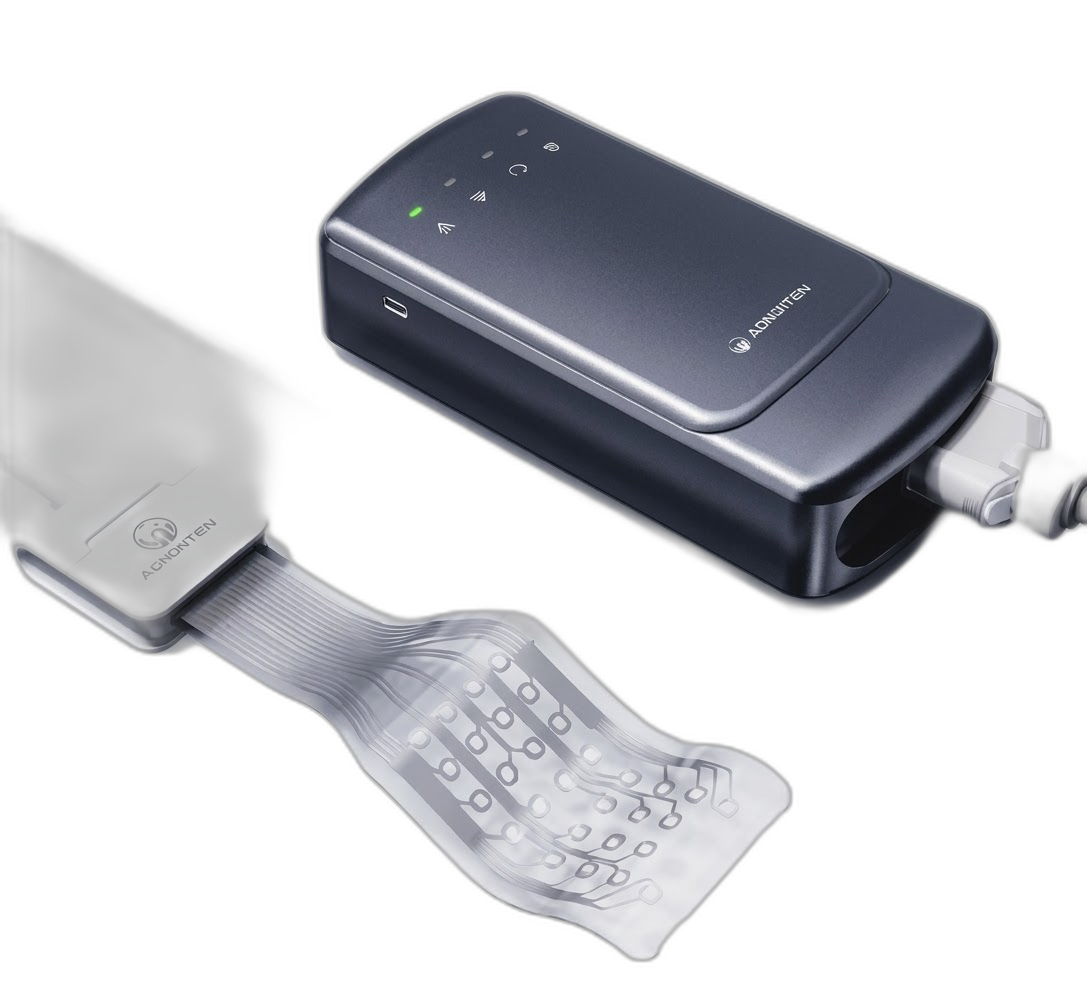
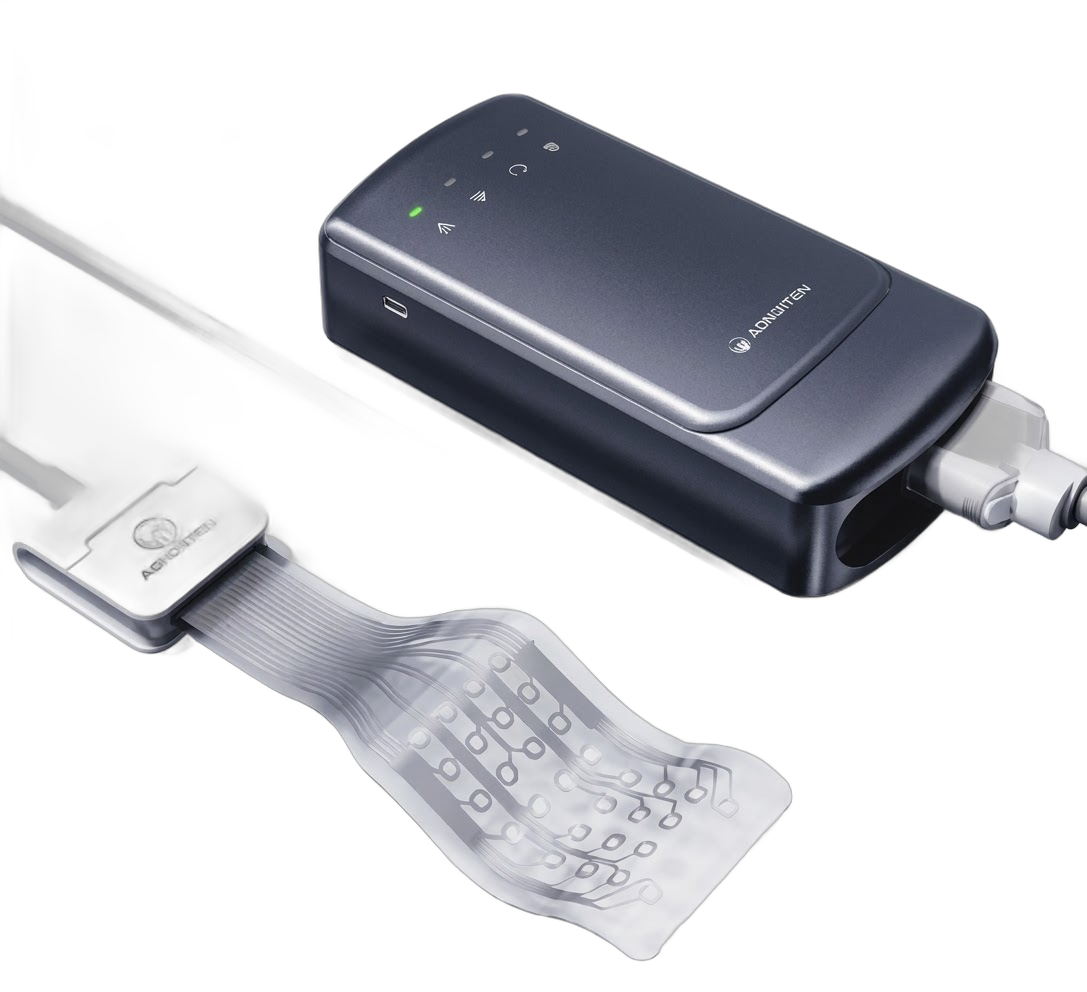
fix: 제품 상세페이지 문구 일괄 수정 및 사양표 영문 병기, 이미지 2건 수정
- 18개 제품 페이지 소개 문구를 더 간결한 버전으로 교체 (수정사항.txt 기준)
- ap003 "3D 포스 (말단골 + 기절골)" → "3D 포스"로 단순화
- ap003·RM65/75 사양표에 헷갈리는 한글 전용 항목명 아래 영문 병기 추가
- hd-emg 이미지: 배경 제거 시 케이블이 함께 지워졌던 것을
  isnet-general-use 모델로 재처리해 복원
- hybridex 이미지: 제품이 검정색이라 어두운 히어로 배경에서 묻혀 안 보이던
  문제를 은은한 밝은 백드롭 추가로 해결

diff --git a/app/[locale]/products/robot-hand/ap003/page.tsx b/app/[locale]/products/robot-hand/ap003/page.tsx
@@ -22,29 +22,29 @@ export default async function AP003Page({ params }: PageProps) {
   const isKo = locale === "ko";
 
   const loadAndSpeed = [
-    { k: isKo ? "최대 속도 전 범위 굽힘/펴기 시간" : "Bending/stretching time for full range at max speed", v: "0.7s" },
-    { k: isKo ? "최대 속도 기준 엄지 전체 회전 시간" : "Rotation time of thumb for full range at max speed", v: "0.7s" },
-    { k: isKo ? "펴진 상태 각 손가락 끝 능동력" : "Active force of each finger tip on stretched state", v: "≥ 0.5 Kgf" },
-    { k: isKo ? "굽힌 상태 각 손가락 끝 능동력" : "Active force of each finger tip on bended state", v: "≥ 1.0 Kgf" },
-    { k: isKo ? "4손가락 굽힌 상태 최대 수동 하중" : "Maximum passive load for four fingers on bended state", v: "30kg" },
-    { k: isKo ? "각 손가락 굽힌 상태 최대 수동 하중" : "Maximum passive load for each finger on bended state", v: "10kg" },
-    { k: isKo ? "각 손가락 펴진 상태 최대 수동 하중" : "Maximum passive load for each finger on stretched state", v: "8kg" },
-    { k: isKo ? "무게" : "Weight", v: "626g ± 5g" },
+    { ko: "최대 속도 전 범위 굽힘/펴기 시간", en: "Bending/stretching time for full range at max speed", v: "0.7s" },
+    { ko: "최대 속도 기준 엄지 전체 회전 시간", en: "Rotation time of thumb for full range at max speed", v: "0.7s" },
+    { ko: "펴진 상태 각 손가락 끝 능동력", en: "Active force of each finger tip on stretched state", v: "≥ 0.5 Kgf" },
+    { ko: "굽힌 상태 각 손가락 끝 능동력", en: "Active force of each finger tip on bended state", v: "≥ 1.0 Kgf" },
+    { ko: "4손가락 굽힌 상태 최대 수동 하중", en: "Maximum passive load for four fingers on bended state", v: "30kg" },
+    { ko: "각 손가락 굽힌 상태 최대 수동 하중", en: "Maximum passive load for each finger on bended state", v: "10kg" },
+    { ko: "각 손가락 펴진 상태 최대 수동 하중", en: "Maximum passive load for each finger on stretched state", v: "8kg" },
+    { ko: "무게", en: "Weight", v: "626g ± 5g" },
   ];
 
   const forceSensor3D = [
-    { k: isKo ? "주파수" : "Frequency", v: "≥ 50Hz" },
-    { k: isKo ? "최대 견딜 수 있는 힘" : "Maximum Withstand Force", v: isKo ? "30N (개별 촉각 센서 기준)" : "30N (for individual tactile sensor)" },
-    { k: isKo ? "수직 압력 범위 / 감도" : "Normal Force Range / Sensitivity", v: "15N / 0.1N" },
-    { k: isKo ? "전단력 범위 (말단골)" : "Shear Force Range (Distal Phalanx)", v: "± 5N" },
-    { k: isKo ? "방향 분해능" : "Directional Resolution", v: "1˚" },
+    { ko: "주파수", en: "Frequency", v: "≥ 50Hz" },
+    { ko: "최대 견딜 수 있는 힘", en: "Maximum Withstand Force", v: isKo ? "30N (개별 촉각 센서 기준)" : "30N (for individual tactile sensor)" },
+    { ko: "수직 압력 범위 / 감도", en: "Normal Force Range / Sensitivity", v: "15N / 0.1N" },
+    { ko: "전단력 범위 (말단골)", en: "Shear Force Range (Distal Phalanx)", v: "± 5N" },
+    { ko: "방향 분해능", en: "Directional Resolution", v: "1˚" },
   ];
 
   const dotMatrix = [
-    { k: isKo ? "주파수" : "Frequency", v: "150Hz" },
-    { k: isKo ? "도트 수" : "Dots", v: "11 x 5" },
-    { k: isKo ? "수직 압력 범위" : "Normal Force Range", v: "0.1N ~ 25N" },
-    { k: isKo ? "반복 정확도" : "Repeatability Accuracy", v: isKo ? "± 20% (500g 하중 기준)" : "± 20% (500g load)" },
+    { ko: "주파수", en: "Frequency", v: "150Hz" },
+    { ko: "도트 수", en: "Dots", v: "11 x 5" },
+    { ko: "수직 압력 범위", en: "Normal Force Range", v: "0.1N ~ 25N" },
+    { ko: "반복 정확도", en: "Repeatability Accuracy", v: isKo ? "± 20% (500g 하중 기준)" : "± 20% (500g load)" },
   ];
 
   const useCases = [
@@ -150,8 +150,11 @@ export default async function AP003Page({ params }: PageProps) {
           <div className="max-w-2xl overflow-hidden">
             {loadAndSpeed.map((s, i) => (
               <div key={i} className={`flex justify-between px-6 py-4 text-sm ${i % 2 === 0 ? "bg-gray-50/40" : ""}`}>
-                <span className="text-gray-500 font-medium">{s.k}</span>
-                <span className="font-semibold text-gray-900 text-right">{s.v}</span>
+                <span className="text-gray-500 font-medium">
+                  {isKo ? s.ko : s.en}
+                  <span className="block text-xs text-gray-400">{isKo ? s.en : s.ko}</span>
+                </span>
+                <span className="font-semibold text-gray-900 text-right shrink-0 pl-4">{s.v}</span>
               </div>
             ))}
           </div>
@@ -166,14 +169,17 @@ export default async function AP003Page({ params }: PageProps) {
             <div className="bg-white rounded-2xl border border-gray-100 overflow-hidden">
               <div className="px-6 py-4 border-b border-gray-100">
                 <h3 className="text-sm font-bold text-gray-900">
-                  {isKo ? "3D 포스 (말단골 + 기절골)" : "3D Force (Distal + Proximal Phalanx)"}
+                  {isKo ? "3D 포스" : "3D Force"}
                 </h3>
               </div>
               <div className="divide-y divide-gray-100 text-sm">
                 {forceSensor3D.map((s, i) => (
                   <div key={i} className="flex justify-between px-6 py-3">
-                    <span className="text-gray-500 pr-4">{s.k}</span>
-                    <span className="font-semibold text-gray-900 whitespace-nowrap text-right">{s.v}</span>
+                    <span className="text-gray-500 pr-4">
+                      {isKo ? s.ko : s.en}
+                      <span className="block text-xs text-gray-400">{isKo ? s.en : s.ko}</span>
+                    </span>
+                    <span className="font-semibold text-gray-900 whitespace-nowrap text-right shrink-0">{s.v}</span>
                   </div>
                 ))}
               </div>
@@ -187,8 +193,11 @@ export default async function AP003Page({ params }: PageProps) {
               <div className="divide-y divide-gray-100 text-sm">
                 {dotMatrix.map((s, i) => (
                   <div key={i} className="flex justify-between px-6 py-3">
-                    <span className="text-gray-500 pr-4">{s.k}</span>
-                    <span className="font-semibold text-gray-900 whitespace-nowrap text-right">{s.v}</span>
+                    <span className="text-gray-500 pr-4">
+                      {isKo ? s.ko : s.en}
+                      <span className="block text-xs text-gray-400">{isKo ? s.en : s.ko}</span>
+                    </span>
+                    <span className="font-semibold text-gray-900 whitespace-nowrap text-right shrink-0">{s.v}</span>
                   </div>
                 ))}
               </div>

diff --git a/app/[locale]/products/collaborative-robot/realman/rm65-75/page.tsx b/app/[locale]/products/collaborative-robot/realman/rm65-75/page.tsx
@@ -56,19 +56,19 @@ export default async function RM6575Page({ params }: PageProps) {
       ];
 
   const specs = [
-    { k: isKo ? "자유도" : "DOF", rm65: "6", rm75: "7" },
-    { k: isKo ? "구조 형상" : "Structure", rm65: isKo ? "휴머노이드 구조" : "Humanoid structure", rm75: isKo ? "휴머노이드 구조" : "Humanoid structure" },
-    { k: isKo ? "관절 브레이크 형식" : "Joint Brake Type", rm65: isKo ? "1-3축 기계식 / 4-6축 소프트" : "J1-3 mechanical / J4-6 soft", rm75: isKo ? "1-4축 기계식 / 5-7축 소프트" : "J1-4 mechanical / J5-7 soft" },
-    { k: isKo ? "작업 반경 (mm)" : "Working Radius (mm)", rm65: "610", rm75: "610" },
-    { k: isKo ? "유효 가반 하중 (kg)" : "Payload (kg)", rm65: "5", rm75: "5" },
-    { k: isKo ? "자중 (kg)" : "Net Weight (kg)", rm65: "7.2", rm75: "7.8" },
-    { k: isKo ? "반복 위치 정밀도 (mm)" : "Repeatability (mm)", rm65: "±0.05", rm75: "±0.05" },
-    { k: "TCP " + (isKo ? "선속도 (m/s)" : "Linear Speed (m/s)"), rm65: "≤1.8", rm75: "≤1.8" },
-    { k: isKo ? "정격 소비전력 (W)" : "Rated Power (W)", rm65: "≤150", rm75: "≤200" },
-    { k: isKo ? "최대 출력 (W)" : "Max Power (W)", rm65: "≤600", rm75: "≤600" },
-    { k: isKo ? "베이스 크기 (mm)" : "Base Size (mm)", rm65: "107Φ", rm75: "107Φ" },
-    { k: isKo ? "작동 온도 (˚C)" : "Operating Temp (˚C)", rm65: "0-45", rm75: "0-45" },
-    { k: isKo ? "공급 전압 (V)" : "Power Supply (V)", rm65: "DC 24V", rm75: "DC 24V" },
+    { ko: "자유도", en: "DOF", rm65: "6", rm75: "7" },
+    { ko: "구조 형상", en: "Structure", rm65: isKo ? "휴머노이드 구조" : "Humanoid structure", rm75: isKo ? "휴머노이드 구조" : "Humanoid structure" },
+    { ko: "관절 브레이크 형식", en: "Joint Brake Type", rm65: isKo ? "1-3축 기계식 / 4-6축 소프트" : "J1-3 mechanical / J4-6 soft", rm75: isKo ? "1-4축 기계식 / 5-7축 소프트" : "J1-4 mechanical / J5-7 soft" },
+    { ko: "작업 반경 (mm)", en: "Working Radius (mm)", rm65: "610", rm75: "610" },
+    { ko: "유효 가반 하중 (kg)", en: "Payload (kg)", rm65: "5", rm75: "5" },
+    { ko: "자중 (kg)", en: "Net Weight (kg)", rm65: "7.2", rm75: "7.8" },
+    { ko: "반복 위치 정밀도 (mm)", en: "Repeatability (mm)", rm65: "±0.05", rm75: "±0.05" },
+    { ko: "TCP 선속도 (m/s)", en: "TCP Linear Speed (m/s)", rm65: "≤1.8", rm75: "≤1.8" },
+    { ko: "정격 소비전력 (W)", en: "Rated Power (W)", rm65: "≤150", rm75: "≤200" },
+    { ko: "최대 출력 (W)", en: "Max Power (W)", rm65: "≤600", rm75: "≤600" },
+    { ko: "베이스 크기 (mm)", en: "Base Size (mm)", rm65: "107Φ", rm75: "107Φ" },
+    { ko: "작동 온도 (˚C)", en: "Operating Temp (˚C)", rm65: "0-45", rm75: "0-45" },
+    { ko: "공급 전압 (V)", en: "Power Supply (V)", rm65: "DC 24V", rm75: "DC 24V" },
   ];
 
   const controllerBenefits = isKo
@@ -102,7 +102,7 @@ export default async function RM6575Page({ params }: PageProps) {
             </p>
             <p className="text-lg text-white/60 max-w-xl leading-relaxed mb-8">
               {isKo
-                ? "5kg 가반하중과 ±0.05mm 반복정밀도를 제공하는 초경량 협동로봇. RM65는 초경량 설계, 사람과 유사한 6축 구조, 협동 작업, AI 및 비전 연동을 위해 개발된 협동로봇입니다."
+                ? "7.2kg의 초경량 설계로 5kg 페이로드를 지원하며, 제어기가 통합된 고성능 6축 협동로봇입니다."
                 : "An ultra-lightweight cobot with 5kg payload and ±0.05mm repeatability. RM65 was developed for ultra-lightweight design, human-like 6-axis structure, collaborative work, and AI/vision integration."}
             </p>
             <div className="flex flex-wrap gap-3">
@@ -183,7 +183,10 @@ export default async function RM6575Page({ params }: PageProps) {
               <tbody className="divide-y divide-gray-100">
                 {specs.map((s, i) => (
                   <tr key={i} className={i % 2 === 0 ? "" : "bg-gray-50/40"}>
-                    <td className="px-5 py-3 text-xs font-semibold text-gray-500 whitespace-nowrap">{s.k}</td>
+                    <td className="px-5 py-3 text-xs font-semibold text-gray-500">
+                      {isKo ? s.ko : s.en}
+                      <span className="block text-[11px] font-normal text-gray-400">{isKo ? s.en : s.ko}</span>
+                    </td>
                     <td className="px-5 py-3 text-center text-gray-700 whitespace-nowrap">{s.rm65}</td>
                     <td className="px-5 py-3 text-center text-gray-700 whitespace-nowrap">{s.rm75}</td>
                   </tr>

diff --git a/app/[locale]/products/humanoid/robot-arm/rx75-vision/page.tsx b/app/[locale]/products/humanoid/robot-arm/rx75-vision/page.tsx
@@ -128,7 +128,7 @@ export default async function Rx75VisionPage({ params }: PageProps) {
             </p>
             <p className="text-lg text-white/60 max-w-xl leading-relaxed mb-8">
               {isKo
-                ? "RX75 Vision은 Intel RealSense D405 깊이 카메라를 로봇 말단부에 기본 탑재한 7축 휴머노이드 로봇암입니다. AI 비전과 6축 힘·토크 센서를 결합하여 물체 인식, 위치 보정, 정밀 조작을 하나의 플랫폼에서 구현할 수 있으며, 휴머노이드 로봇, Embodied AI, 스마트 자동화 및 연구개발 분야에 최적화되어 있습니다."
+                ? "7축 로봇암에 AI 비전과 힘·토크 센서를 결합해 물체 인식부터 위치 보정, 정밀 조작까지 구현할 수 있는 휴머노이드 로봇암입니다."
                 : "RX75 Vision is a 7-axis humanoid robot arm with an Intel RealSense D405 depth camera built into its end effector. Combining AI vision with a 6-axis force/torque sensor, it delivers object recognition, position correction, and precise manipulation on a single platform — optimized for humanoid robots, embodied AI, smart automation, and R&D."}
             </p>
             <div className="flex flex-wrap gap-3 mb-8">

diff --git a/app/[locale]/products/humanoid/robot-arm/rx75s/page.tsx b/app/[locale]/products/humanoid/robot-arm/rx75s/page.tsx
@@ -128,7 +128,7 @@ export default async function Rx75sPage({ params }: PageProps) {
             </p>
             <p className="text-lg text-white/60 max-w-xl leading-relaxed mb-8">
               {isKo
-                ? "RX75S Standard는 RX75의 성능을 유지하면서 더욱 컴팩트한 구조로 설계된 휴머노이드 로봇암입니다. 691mm 작업반경과 5kg 가반하중, 내장형 6축 힘·토크 센서를 통해 협소한 공간에서도 높은 작업 효율과 정밀한 제어를 제공합니다. 특히 양팔 휴머노이드 시스템과 이동형 로봇 플랫폼에 최적화되어 있습니다."
+                ? "691mm 작업반경과 5kg 가반하중을 갖춘 컴팩트한 6축 로봇암으로, 양팔 휴머노이드와 이동형 로봇 플랫폼에 적합합니다."
                 : "RX75S Standard is a humanoid robot arm designed with a more compact structure while maintaining RX75's performance. With a 691mm working radius, 5kg payload, and built-in 6-axis force/torque sensor, it delivers high efficiency and precise control even in tight spaces — optimized especially for dual-arm humanoid systems and mobile robot platforms."}
             </p>
             <div className="flex flex-wrap gap-3 mb-8">

diff --git a/app/[locale]/products/humanoid/robot-arm/rx71/page.tsx b/app/[locale]/products/humanoid/robot-arm/rx71/page.tsx
@@ -127,7 +127,7 @@ export default async function Rx71Page({ params }: PageProps) {
           </p>
           <p className="text-lg text-white/60 max-w-xl leading-relaxed mb-8">
             {isKo
-              ? "RX71 Standard는 3kg 가반하중과 7축 자유도를 갖춘 휴머노이드 로봇암으로, 연구개발, AI 알고리즘 검증, 교육 및 정밀 작업에 최적화된 모델입니다. 경량 설계와 뛰어난 조작성으로 다양한 개발 환경에 쉽게 적용할 수 있으며, 휴머노이드 및 Embodied AI 플랫폼 구축을 위한 효율적인 솔루션을 제공합니다."
+              ? "3kg 가반하중과 7축 자유도를 갖춘 경량 로봇암으로, AI·휴머노이드 연구개발과 정밀 작업에 적합합니다."
               : "RX71 Standard is a humanoid robot arm with a 3kg payload and 7-axis DOF, optimized for R&D, AI algorithm validation, education, and precision work. Its lightweight design and excellent maneuverability make it easy to apply across diverse development environments, offering an efficient solution for building humanoid and embodied AI platforms."}
           </p>
           <div className="flex flex-wrap gap-3 mb-8">

diff --git a/app/[locale]/products/physical-ai/tashan/page.tsx b/app/[locale]/products/physical-ai/tashan/page.tsx
@@ -42,7 +42,7 @@ export default async function TashanPage({ params }: PageProps) {
             </p>
             <p className="text-lg text-white/60 max-w-xl leading-relaxed mb-8">
               {isKo
-                ? "첨단 촉각 센싱 기술은 단순한 힘 감지를 넘어 촉감·압력·근접·마찰·재질 변화까지 읽어내는 새로운 차원의 로봇 감각을 가능하게 합니다. 사람의 손처럼 섬세하게 반응하는 로봇 핸드는 제조·서비스·의료 분야의 정밀성을 크게 확장합니다."
+                ? "Tashan 촉각센서는 힘·압력·근접·마찰·재질 등의 정보를 정밀하게 감지해 로봇이 사람의 손처럼 섬세하게 물체를 인식하고 조작할 수 있도록 합니다."
                 : "Advanced tactile sensing technology goes beyond simple force detection — enabling a new dimension of robot senses that read touch, pressure, proximity, friction, and material changes. Robot hands that respond as delicately as human hands greatly expand precision in manufacturing, service, and medical robotics."}
             </p>
             <div className="flex flex-wrap gap-3">

diff --git a/app/[locale]/products/humanoid/realbot-01/page.tsx b/app/[locale]/products/humanoid/realbot-01/page.tsx
@@ -96,7 +96,7 @@ export default async function Realbot01Page({ params }: PageProps) {
           </p>
           <p className="text-lg text-white/60 max-w-2xl leading-relaxed mb-8">
             {isKo
-              ? "RealBot-01은 Embodied AI 연구와 휴머노이드 개발을 위해 설계된 차세대 휠형 휴머노이드입니다. 모듈형 구조를 기반으로 상체와 이동 플랫폼을 분리하거나 다양한 플랫폼과 결합할 수 있어 연구, 데이터 수집, AI 학습, 알고리즘 개발에 최적화되어 있습니다."
+              ? "모듈형 구조와 휠 기반 이동을 갖춘 연구용 휴머노이드 로봇으로, Embodied AI 연구와 데이터 수집 및 AI 학습에 적합합니다."
               : "RealBot-01 is a next-generation wheeled humanoid designed for embodied AI research and humanoid development. Its modular structure lets the upper body separate from or combine with various mobility platforms, optimized for research, data collection, AI training, and algorithm development."}
           </p>
           <div className="flex flex-wrap gap-3 mb-8">

diff --git a/app/[locale]/products/humanoid/realbot-l2/page.tsx b/app/[locale]/products/humanoid/realbot-l2/page.tsx
@@ -109,7 +109,7 @@ export default async function RealbotL2Page({ params }: PageProps) {
           </p>
           <p className="text-lg text-white/60 max-w-2xl leading-relaxed mb-8">
             {isKo
-              ? "RealBot L2는 승강(Lifting) 구조를 적용한 휠형 휴머노이드 로봇입니다. 작업 높이를 자유롭게 조절할 수 있어 높은 선반, 생산 라인, 물류 랙 등 다양한 높이의 작업 환경에 유연하게 대응하며, 서비스부터 산업 자동화까지 폭넓게 활용할 수 있습니다."
+              ? "승강 구조와 휠 기반 이동을 결합해 작업 높이를 자유롭게 조절할 수 있는 휴머노이드 로봇으로, 물류·제조·서비스 환경에 유연하게 대응합니다."
               : "RealBot L2 is a wheeled humanoid robot with a lifting structure. Its freely adjustable working height flexibly handles tasks at high shelves, production lines, and logistics racks — spanning from service to industrial automation."}
           </p>
           <div className="flex flex-wrap gap-3 mb-8">

diff --git a/app/[locale]/products/humanoid/embodied-dual-arm/page.tsx b/app/[locale]/products/humanoid/embodied-dual-arm/page.tsx
@@ -85,7 +85,7 @@ export default async function EmbodiedDualArmPage({ params }: PageProps) {
           </p>
           <p className="text-lg text-white/60 max-w-2xl leading-relaxed mb-8">
             {isKo
-              ? "이동, 승강, 양팔 작업을 하나의 플랫폼에 통합한 산업용 모바일 로봇입니다. 두 개의 로봇암과 승강축을 결합하여 다양한 높이의 작업 환경에 대응하며, 제조·물류·검사 공정의 자동화를 지원합니다."
+              ? "이동·승강·양팔 작업을 하나의 플랫폼에 통합한 모바일 로봇으로, 제조·물류·검사 등 다양한 작업을 자동화할 수 있습니다."
               : "An industrial mobile robot that integrates mobility, lifting, and dual-arm manipulation on a single platform. Combining two robot arms with a lift axis, it handles work environments of varying heights and supports automation in manufacturing, logistics, and inspection."}
           </p>
           <div className="flex flex-wrap gap-3 mb-8">

diff --git a/app/[locale]/products/collaborative-robot/elephant-robotics/page.tsx b/app/[locale]/products/collaborative-robot/elephant-robotics/page.tsx
@@ -111,7 +111,7 @@ export default async function ElephantRoboticsPage({ params }: PageProps) {
             </p>
             <p className="text-lg text-white/60 max-w-xl leading-relaxed mb-8">
               {isKo
-                ? "myCobot 시리즈는 산업 자동화보다는 교육, 연구, 로봇 개발, 알고리즘 실험에 최적화된 플랫폼입니다. 컴팩트한 크기와 직관적인 제어 구조를 바탕으로 입문자부터 전문 연구자까지 폭넓게 활용할 수 있습니다."
+                ? "컴팩트한 크기와 직관적인 제어가 강점인 협동로봇으로, 교육·연구와 로봇 개발 및 알고리즘 실험에 적합합니다."
                 : "The myCobot series is optimized for education, research, robot development, and algorithm experimentation rather than industrial automation. Its compact size and intuitive control structure make it accessible from beginners to professional researchers."}
             </p>
             <div className="flex flex-wrap gap-3">

diff --git a/app/[locale]/products/humanoid/lifting-platform/page.tsx b/app/[locale]/products/humanoid/lifting-platform/page.tsx
@@ -85,7 +85,7 @@ export default async function LiftingPlatformPage({ params }: PageProps) {
           </p>
           <p className="text-lg text-white/60 max-w-2xl leading-relaxed mb-8">
             {isKo
-              ? "Single Arm Vertical Lift는 자율주행 플랫폼, 승강축, 단일 로봇암을 결합한 모바일 자동화 솔루션입니다. 컴팩트한 설계와 유연한 작업 범위를 바탕으로 제조, 물류, 검사 등 다양한 산업 환경에서 효율적인 자동화를 지원합니다."
+              ? "자율주행·승강·단일 로봇암을 결합해 다양한 높이의 작업을 수행할 수 있는 모바일 자동화 로봇입니다."
               : "Single Arm Vertical Lift is a mobile automation solution combining an autonomous platform, lift axis, and single robot arm. Its compact design and flexible work range support efficient automation across manufacturing, logistics, and inspection environments."}
           </p>
           <div className="flex flex-wrap gap-3 mb-8">

diff --git a/app/[locale]/products/prosthetic/ohand-s001/page.tsx b/app/[locale]/products/prosthetic/ohand-s001/page.tsx
@@ -81,7 +81,7 @@ export default async function OhandS001Page({ params }: PageProps) {
             </p>
             <p className="text-lg text-white/60 max-w-xl leading-relaxed mb-8">
               {isKo
-                ? "OHand S001은 근전도(EMG) 신호를 기반으로 자연스러운 손동작을 구현하는 소형 전자의수입니다. 5개의 독립 구동 손가락과 정밀한 파지 성능을 통해 일상생활은 물론 재활 및 연구 분야에서도 폭넓게 활용됩니다."
+                ? "근전도(EMG) 신호로 손동작을 제어하는 소형 전자의수로, 5개 손가락의 독립 구동을 통해 자연스럽고 정밀한 파지가 가능합니다."
                 : "OHand S001 is a compact prosthetic hand that realizes natural hand motion based on EMG signals. With 5 independently driven fingers and precise grip performance, it is widely used in daily living as well as rehabilitation and research."}
             </p>
             <div className="flex flex-wrap gap-3">
